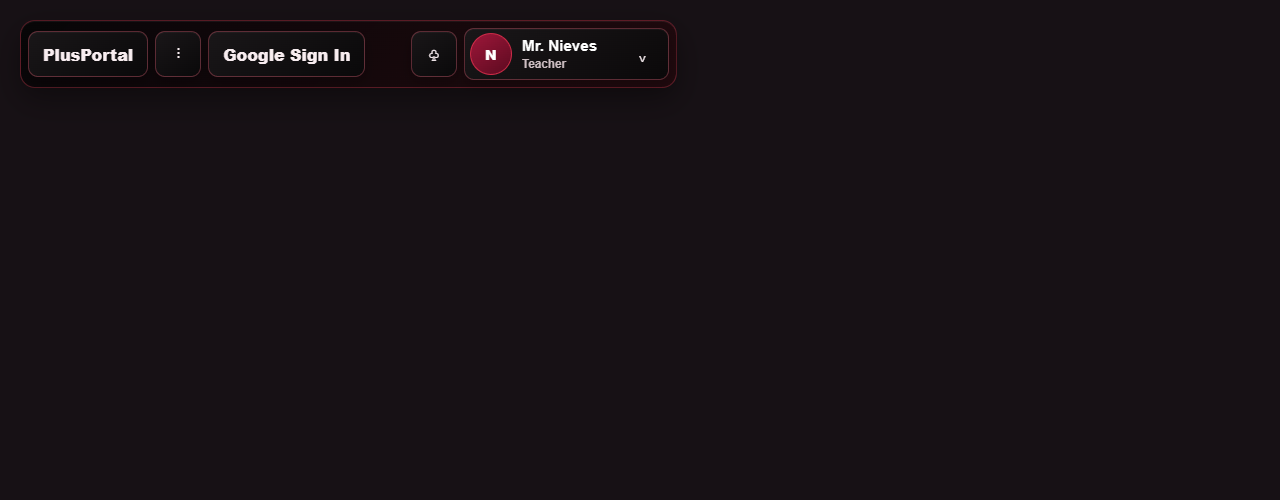
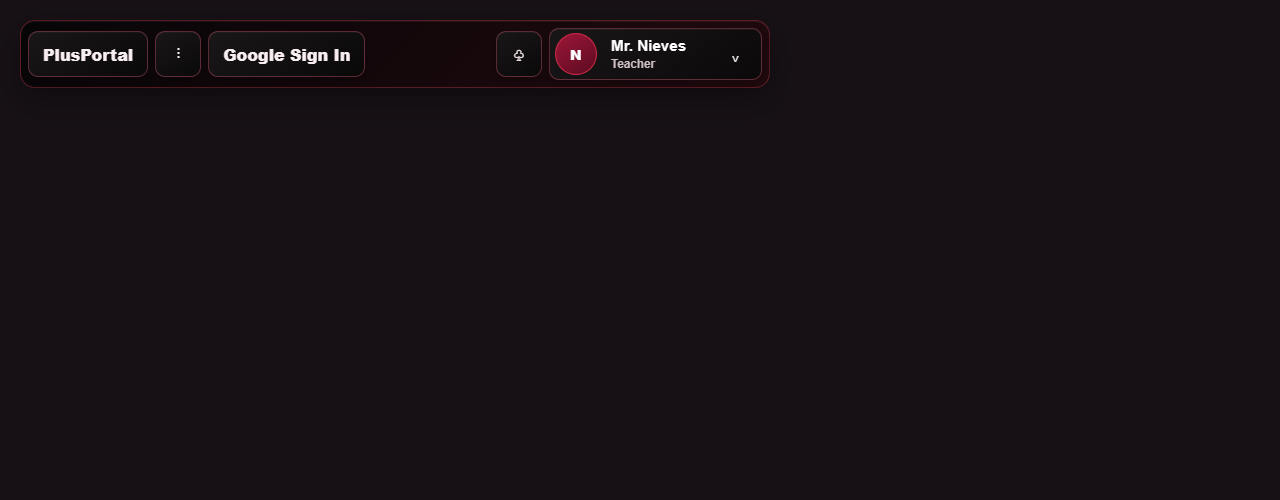
Restore full-size header controls and lightning spacing

Changed region(s): [[0.3125, 0.06, 0.5938, 0.18], [0.5312, 0.03, 0.5938, 0.06]]

diff --git a/work/verify-header-single-row.js b/work/verify-header-single-row.js
@@ -1,3 +1,3 @@
 const fs=require('fs'),assert=require('assert/strict'),{chromium}=require('playwright');
-(async()=>{const b=await chromium.launch({executablePath:'C:/Program Files (x86)/Google/Chrome/Application/chrome.exe',headless:true});try{const p=await b.newPage({viewport:{width:1280,height:500}});await p.setContent('<style>'+fs.readFileSync('styles.css','utf8')+'body{padding:20px;background:#171115}.fixture{width:657px}</style><div class="fixture"><div class="home-header-rail"><div class="home-header-apps"><button class="portal-btn">PlusPortal</button><button class="google-apps-trigger">⋮</button><button class="google-signin-btn">Google Sign In</button></div><div class="home-header-energy"></div><div class="home-header-user"><button class="header-message-control">♧</button><details class="header-account-menu"><summary class="header-account-summary"><span class="header-account-avatar">N</span><span class="header-account-copy"><strong>Mr. Nieves</strong><small>Teacher</small></span><span>⌄</span></summary></details></div></div></div>');
-for(const width of [800,657,600,540,500]){await p.locator('.fixture').evaluate((n,w)=>n.style.width=w+'px',width);assert(await p.locator('.home-header-rail').evaluate(n=>{const a=n.querySelector('.home-header-apps').getBoundingClientRect(),u=n.querySelector('.home-header-user').getBoundingClientRect(),r=n.getBoundingClientRect();return Math.abs((a.top+a.bottom)/2-(u.top+u.bottom)/2)<1&&u.right<=r.right&&a.right<=u.left;}),'single row fits '+width);assert(await p.locator('.google-signin-btn').evaluate(n=>n.scrollWidth<=n.clientWidth));}await p.locator('.fixture').evaluate(n=>n.style.width='657px');await p.screenshot({path:'work/header-single-row.png'});console.log('PASS: single row and full Google label at rail widths 500–800px.');}finally{await b.close();}})().catch(e=>{console.error(e);process.exitCode=1;});
+(async()=>{const b=await chromium.launch({executablePath:'C:/Program Files (x86)/Google/Chrome/Application/chrome.exe',headless:true});try{const p=await b.newPage({viewport:{width:1280,height:500}});await p.setContent('<style>'+fs.readFileSync('styles.css','utf8')+'body{padding:20px;background:#171115}.fixture{width:750px}</style><div class="fixture"><div class="home-header-rail"><div class="home-header-apps"><button class="portal-btn">PlusPortal</button><button class="google-apps-trigger">⋮</button><button class="google-signin-btn">Google Sign In</button></div><div class="home-header-energy"></div><div class="home-header-user"><button class="header-message-control">♧</button><details class="header-account-menu"><summary class="header-account-summary"><span class="header-account-avatar">N</span><span class="header-account-copy"><strong>Mr. Nieves</strong><small>Teacher</small></span><span>⌄</span></summary></details></div></div></div>');
+for(const width of [900,800,750]){await p.locator('.fixture').evaluate((n,w)=>n.style.width=w+'px',width);assert(await p.locator('.home-header-rail').evaluate(n=>{const a=n.querySelector('.home-header-apps').getBoundingClientRect(),u=n.querySelector('.home-header-user').getBoundingClientRect(),r=n.getBoundingClientRect();return Math.abs((a.top+a.bottom)/2-(u.top+u.bottom)/2)<1&&u.right<=r.right&&a.right<=u.left;}),'single row fits '+width);assert(await p.locator('.google-signin-btn').evaluate(n=>n.scrollWidth<=n.clientWidth));}await p.locator('.fixture').evaluate(n=>n.style.width='750px');assert(await p.locator('.home-header-energy').evaluate(n=>n.getBoundingClientRect().width>=70));assert(await p.locator('.header-account-summary').evaluate(n=>parseFloat(getComputedStyle(n).columnGap)>=14));await p.screenshot({path:'work/header-single-row.png'});console.log('PASS: single row and full Google label at rail widths 750–900px.');}finally{await b.close();}})().catch(e=>{console.error(e);process.exitCode=1;});

diff --git a/styles.css b/styles.css
@@ -7979,6 +7979,18 @@ body[data-theme="night"] .colt-radio-station.is-active {
   margin-left: 12px;
 }
 
+/* Reserve room for full-size controls before allocating space to the title. */
+@media (min-width: 981px) {
+  .home-header-actions { flex:1 0 750px; min-width:750px; }
+  .home-header-rail .home-header-energy { min-width:70px; }
+  .home-header-rail .header-account-summary { gap:14px; min-width:213px; }
+}
+@media (min-width: 981px) and (max-width: 1280px) {
+  .hero-panel .topbar { flex-direction:column; }
+  .hero-panel .topbar > .title-group { flex:0 1 auto; }
+  .home-header-actions { flex:0 1 auto; width:100%; margin-left:0; }
+}
+
 .hero-panel > .topbar:has(.google-apps-menu[open]),
 .hero-panel > .topbar:has(.header-account-menu[open]) {
   z-index: 30;
@@ -7995,7 +8007,6 @@ body[data-theme="night"] .colt-radio-station.is-active {
 .home-header-rail {
   display: flex;
   flex-wrap: nowrap;
-  container-type: inline-size;
   align-items: center;
   justify-content: space-between;
   gap: 8px;
@@ -8183,21 +8194,6 @@ body[data-theme="night"] .colt-radio-station.is-active {
   display: none;
 }
 
-/* Compact controls according to the rail's available space, never wrap them. */
-@container (max-width: 600px) {
-  .home-header-energy { display:none; }
-  .home-header-apps, .home-header-user { gap:5px; }
-  .home-header-rail .portal-btn,
-  .home-header-rail .google-signin-btn { padding-inline:9px; font-size:0.85rem; }
-  .home-header-user { flex:0 1 auto; }
-  .header-account-summary {
-    min-width:140px;
-    grid-template-columns:32px minmax(0,1fr) 12px;
-    gap:6px;
-    padding-inline:5px;
-  }
-  .header-account-summary .header-account-avatar { width:32px; height:32px; }
-}
 
 .header-account-avatar {
   display: grid;

diff --git a/index.html b/index.html
@@ -11,7 +11,7 @@
   <link rel="icon" type="image/png" sizes="16x16" href="/favicon-16x16.png?v=20260727-shield2">
   <link rel="apple-touch-icon" sizes="180x180" href="/apple-touch-icon.png?v=20260727-shield2">
   <link rel="manifest" href="/site.webmanifest?v=20260901-single-client-v1">
-  <link rel="stylesheet" href="styles.css?v=20261003-header-single-row-v75">
+  <link rel="stylesheet" href="styles.css?v=20261003-header-full-size-v76">
   <link rel="stylesheet" href="launchpad-scenes.css?v=20260928-holiday-motion-v46">
   <link rel="stylesheet" href="scene-frame-fit.css?v=20261002-fire-v5">
   <link rel="stylesheet" href="collectible-shelf.css?v=20261003-nugget-fit-v34">
